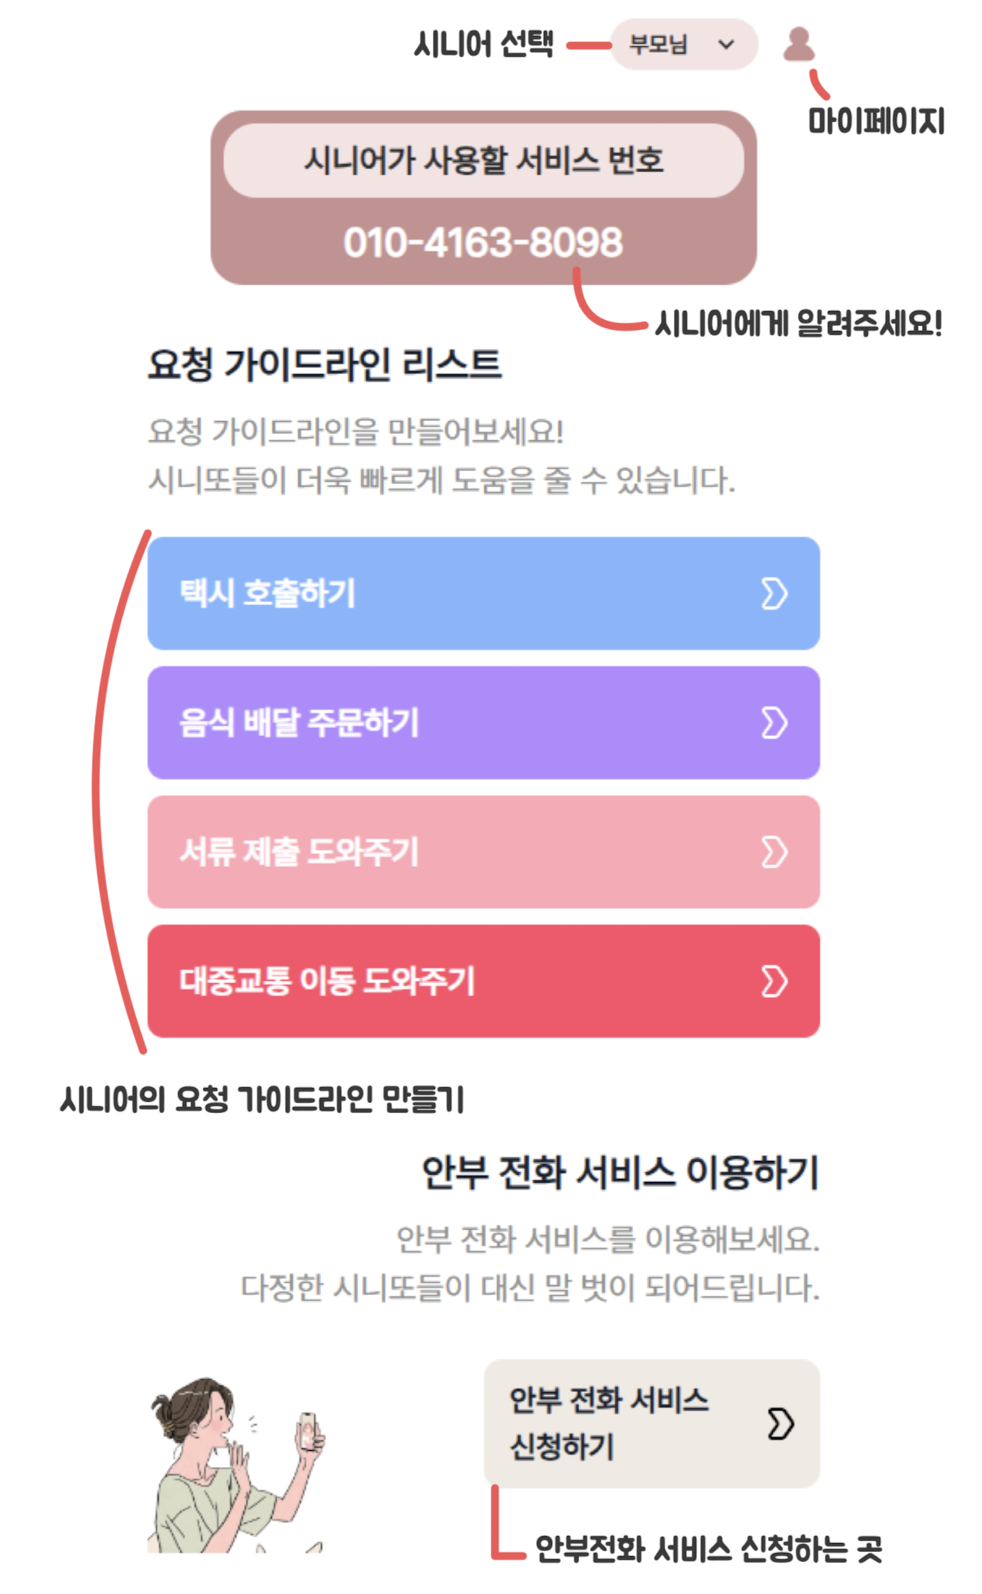
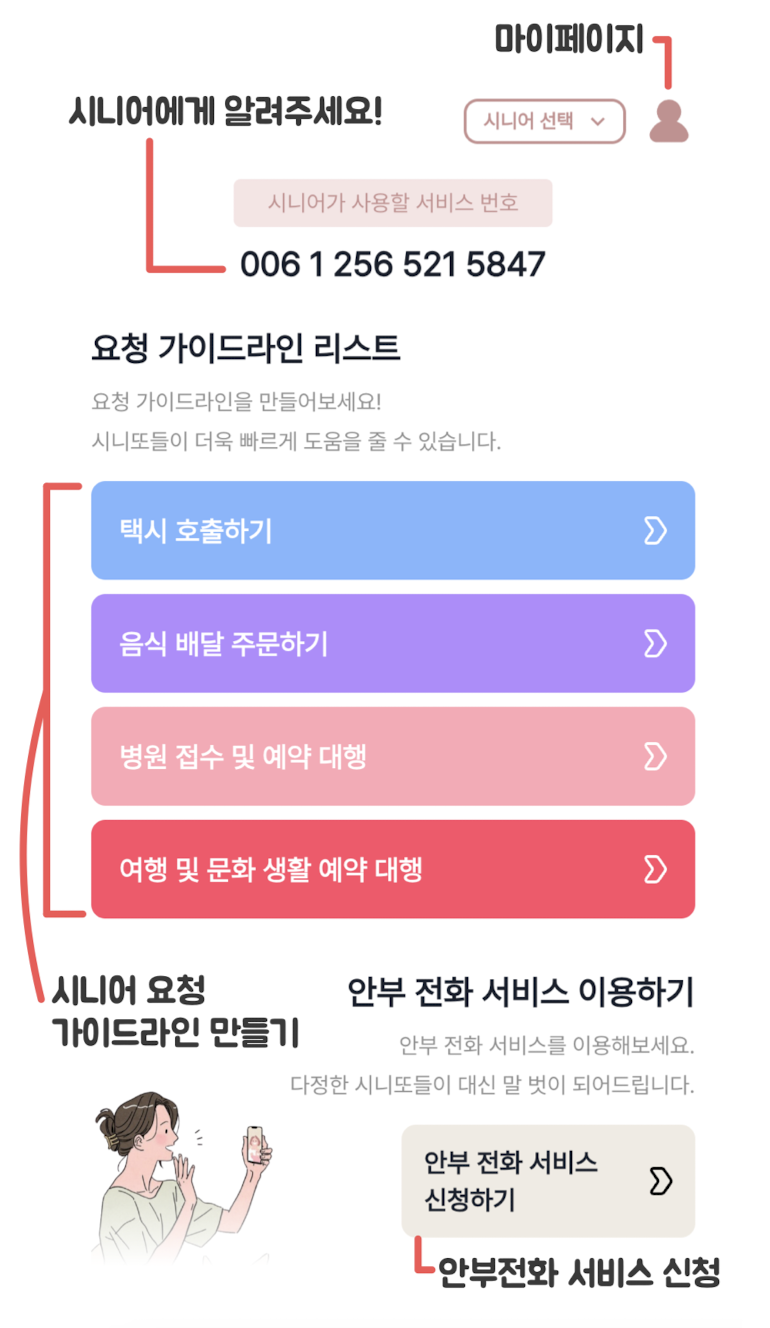
Design: 이미지 파일 변경

diff --git a/src/pages/common/service-manual/ServiceManualPage.tsx b/src/pages/common/service-manual/ServiceManualPage.tsx
@@ -57,7 +57,7 @@ const ServiceManualPage = () => {
           </SwiperSlide>
           <SwiperSlide>
             <ManualDetail
-              title='가이드라인 만들기'
+              title='가이드라인을 만들어보세요.'
               description='시니어를 등록했다면 시니어마다 가이드라인을 등록해보세요! 시니또들이 빠르게 도움을 줄 수 있습니다. '
               imageSrc='/image/service-manual2.png'
             />
@@ -79,7 +79,7 @@ const ServiceManualPage = () => {
           <SwiperSlide>
             <ManualDetail
               title='시니어의 서비스를 확인하세요'
-              description='서비스 확인하고 완료 처리해주세요. 안부전화의 경우 시니또가 작성한 보고서를 볼 수 있습니다!'
+              description='서비스를 확인하고 완료 처리해주세요. 안부전화의 경우 시니또가 작성한 보고서를 볼 수 있습니다!'
               imageSrc='/image/service-manual5.png'
             />
           </SwiperSlide>

diff --git a/src/pages/common/service-manual/components/ManualDetail.tsx b/src/pages/common/service-manual/components/ManualDetail.tsx
@@ -14,6 +14,7 @@ const ManualDetail = ({ imageSrc, title, description }: Props) => {
         <Image
           w='350px'
           h='500px'
+          border='2px solid var(--color-primary)'
           borderRadius={10}
           src={imageSrc}
           alt={title}
